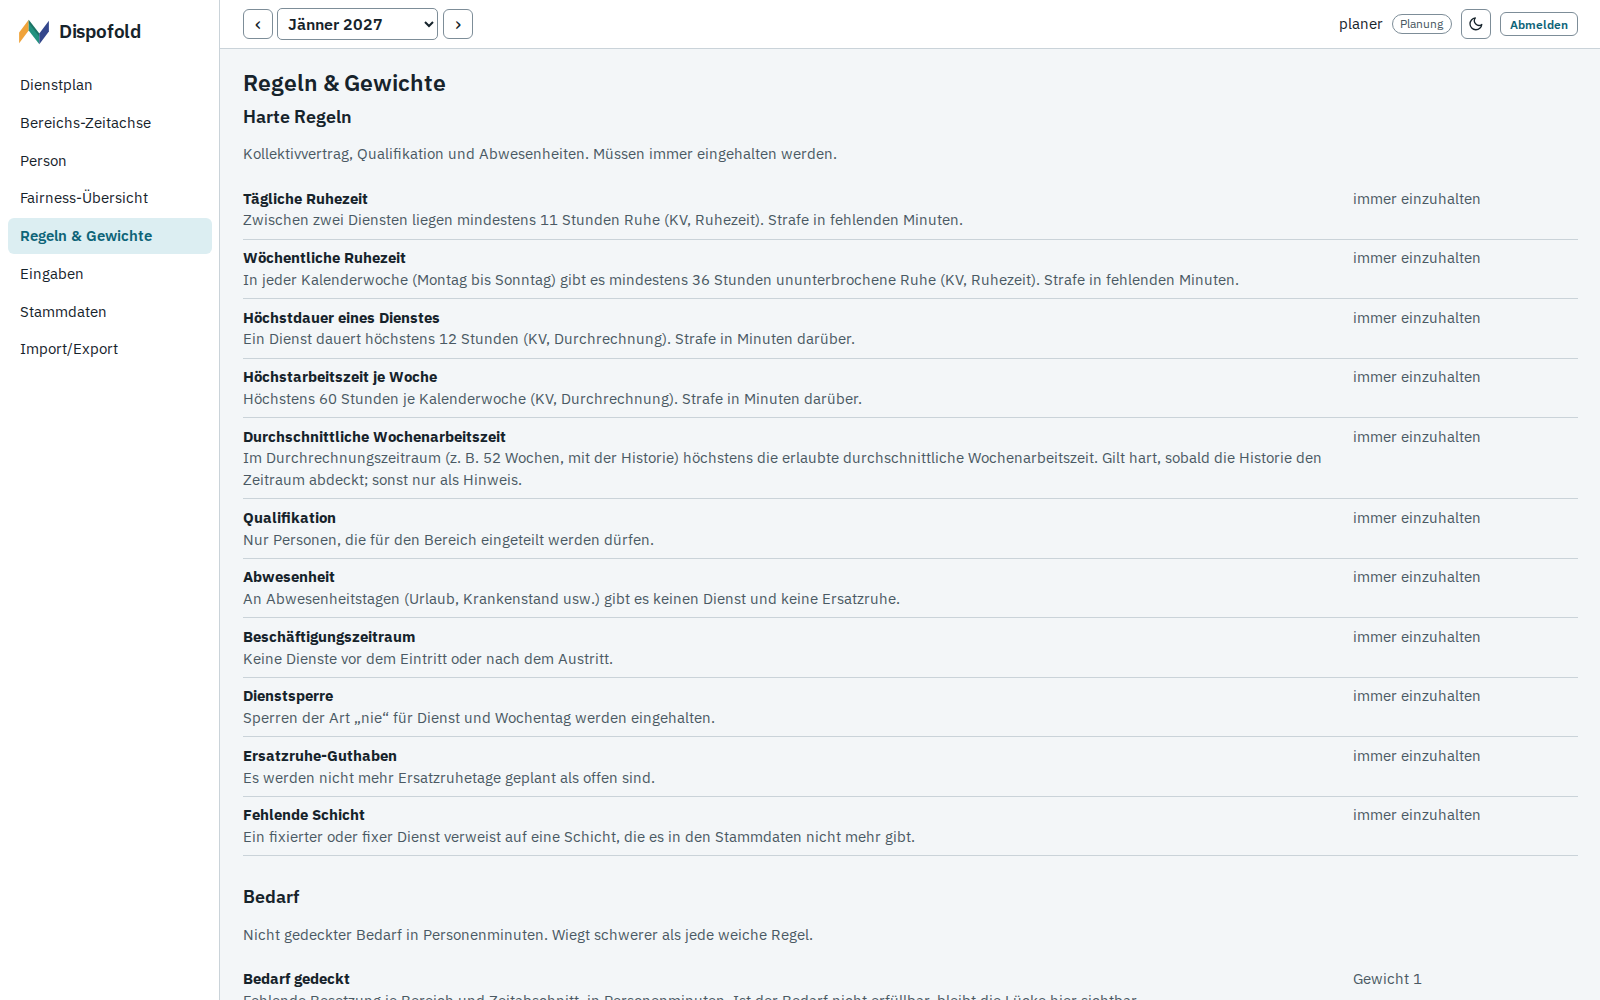
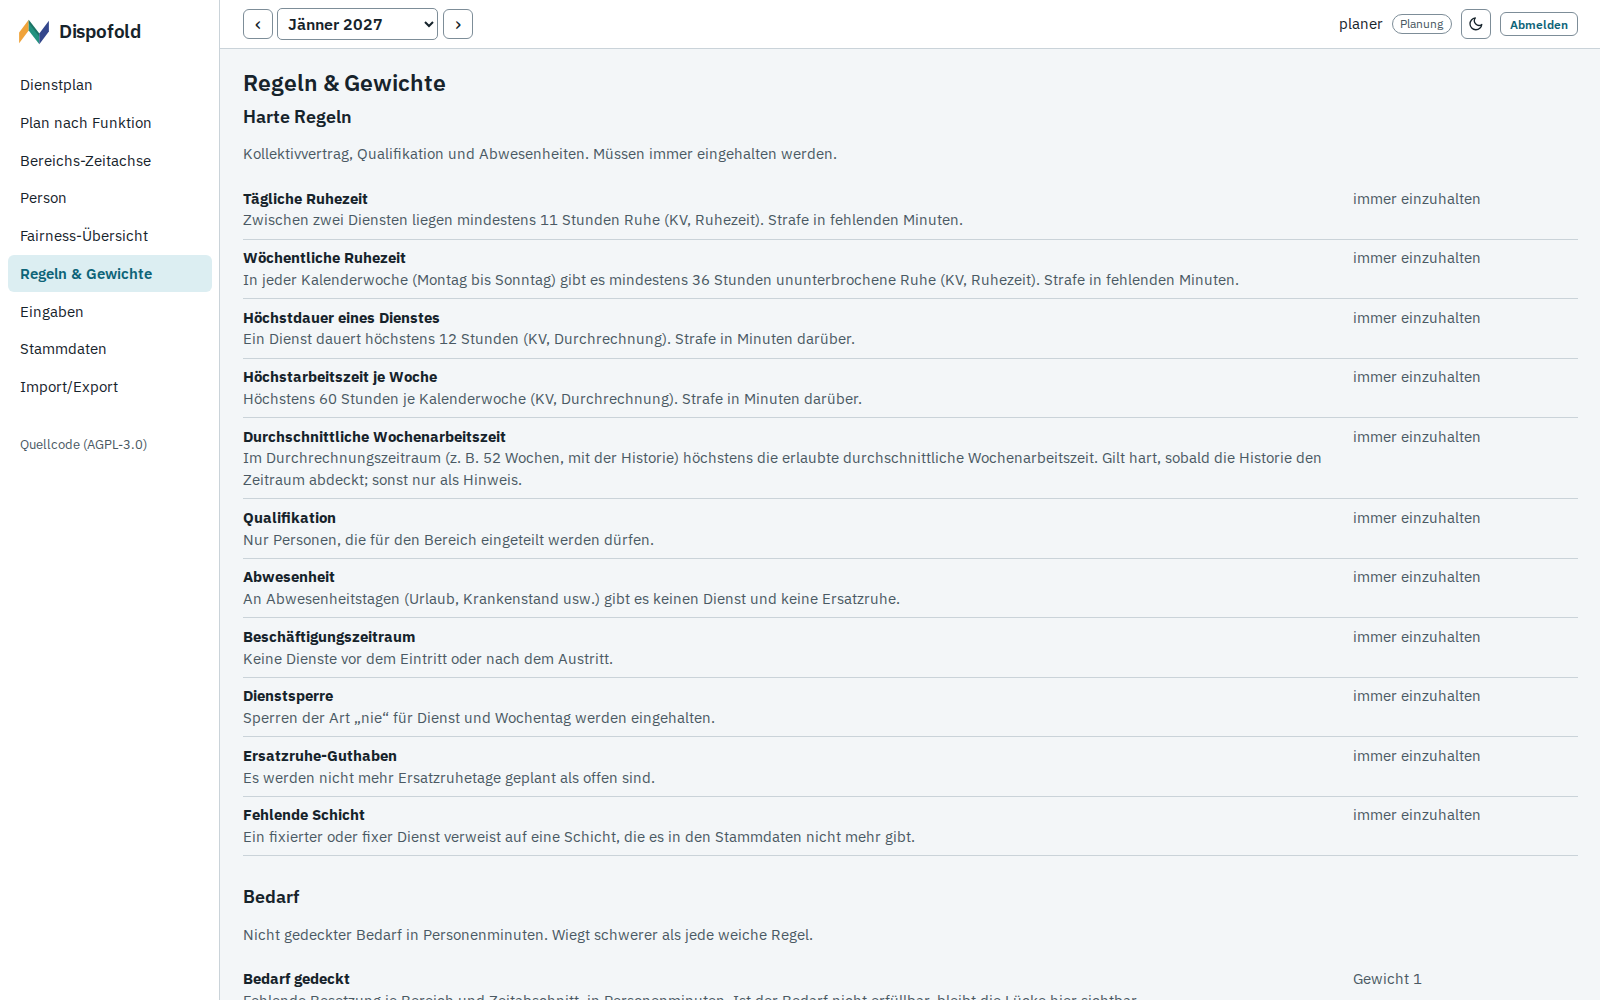
Screenshots of the function view and the candidate list (synthetic demo data); changelog

Changed region(s): [[0.0, 0.093, 0.1562, 0.403], [0.0, 0.434, 0.0938, 0.465]]

diff --git a/CHANGELOG.md b/CHANGELOG.md
@@ -3,6 +3,21 @@
 Jede Version steht auch als Release auf GitHub, mit Images, Installationsdateien und Prüfsummen. Installation
 und Update: [docs/betrieb.md](docs/betrieb.md).
 
+## Unveröffentlicht
+
+- **„Nur auf Anfrage“ plant das Programm nie selbst ein**, auch nicht, wenn dadurch eine Bedarfslücke bleibt.
+  Die Planung fragt die Person und setzt den Dienst von Hand (fixiert) oder als fixen Dienst in den
+  Eingaben; ein solcher Dienst ist kein Verstoß und bleibt als Anfrage-Dienst markiert. Ein nicht fixierter
+  Anfrage-Dienst aus einem früheren Plan fällt bei der nächsten Planung weg.
+- **Wer kann gefragt werden?** Zu jeder Bedarfslücke (Zeile „Bedarfslücken“ im Dienstplan, Lückenliste der
+  Bereichs-Zeitachse, Plan nach Funktion) zeigt Dispofold die Personen, die den Dienst auf Anfrage übernehmen
+  könnten, die mit den wenigsten Stunden zum Soll zuerst. Ein Klick auf den Namen setzt den Dienst.
+- **Plan nach Funktion:** eine zweite Ansicht desselben Plans mit den Schichten je Bereich als Zeilen und den
+  Tagen als Spalten; fehlende Besetzung steht als „fehlt“ in der Zelle.
+- Regeln: Das Gewicht von `onRequest` ist fest und auf der Seite Regeln nicht mehr einstellbar. Gespeicherte
+  Einstellungen mit diesem Gewicht laden weiter.
+- REST-Schnittstelle: neu `GET /api/plans/{month}/candidates`; `GET /api/constraints` liefert `tunable`.
+
 ## 0.2.0 (2026-11-15)
 
 Stammdaten werden jetzt in Dispofold gepflegt. Ein Import aus dem bisherigen System ist nur noch zum Start nötig.

diff --git a/README.md b/README.md
@@ -95,9 +95,13 @@ Betrieb.
 |---|---|
 | ![Fairness](docs/screenshots/fairness.png) | ![Regeln](docs/screenshots/regeln.png) |
 
-| Stammdaten bearbeiten |
+| Stammdaten bearbeiten | Plan nach Funktion |
+|---|---|
+| ![Stammdaten](docs/screenshots/stammdaten.png) | ![Plan nach Funktion](docs/screenshots/funktionen.png) |
+
+| Wer kann gefragt werden? |
 |---|
-| ![Stammdaten](docs/screenshots/stammdaten.png) |
+| ![Wer kann gefragt werden?](docs/screenshots/anfrage.png) |
 
 | Dienstplan, dunkel | Bereichs-Zeitachse, dunkel |
 |---|---|
